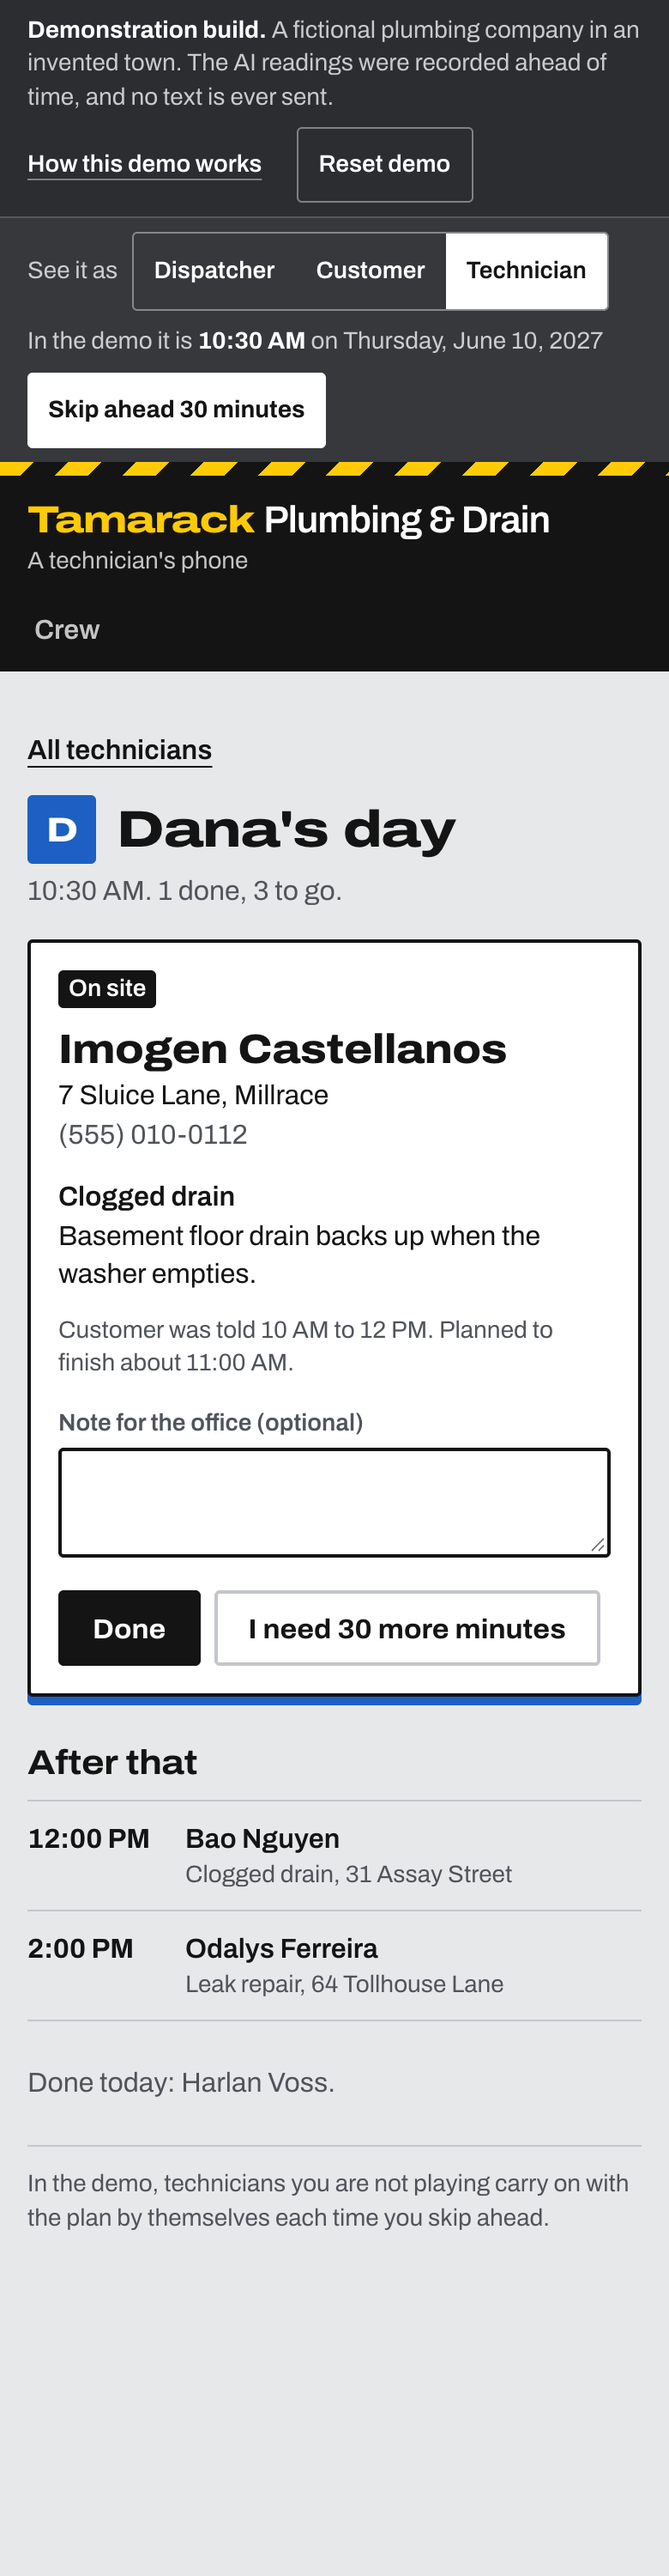
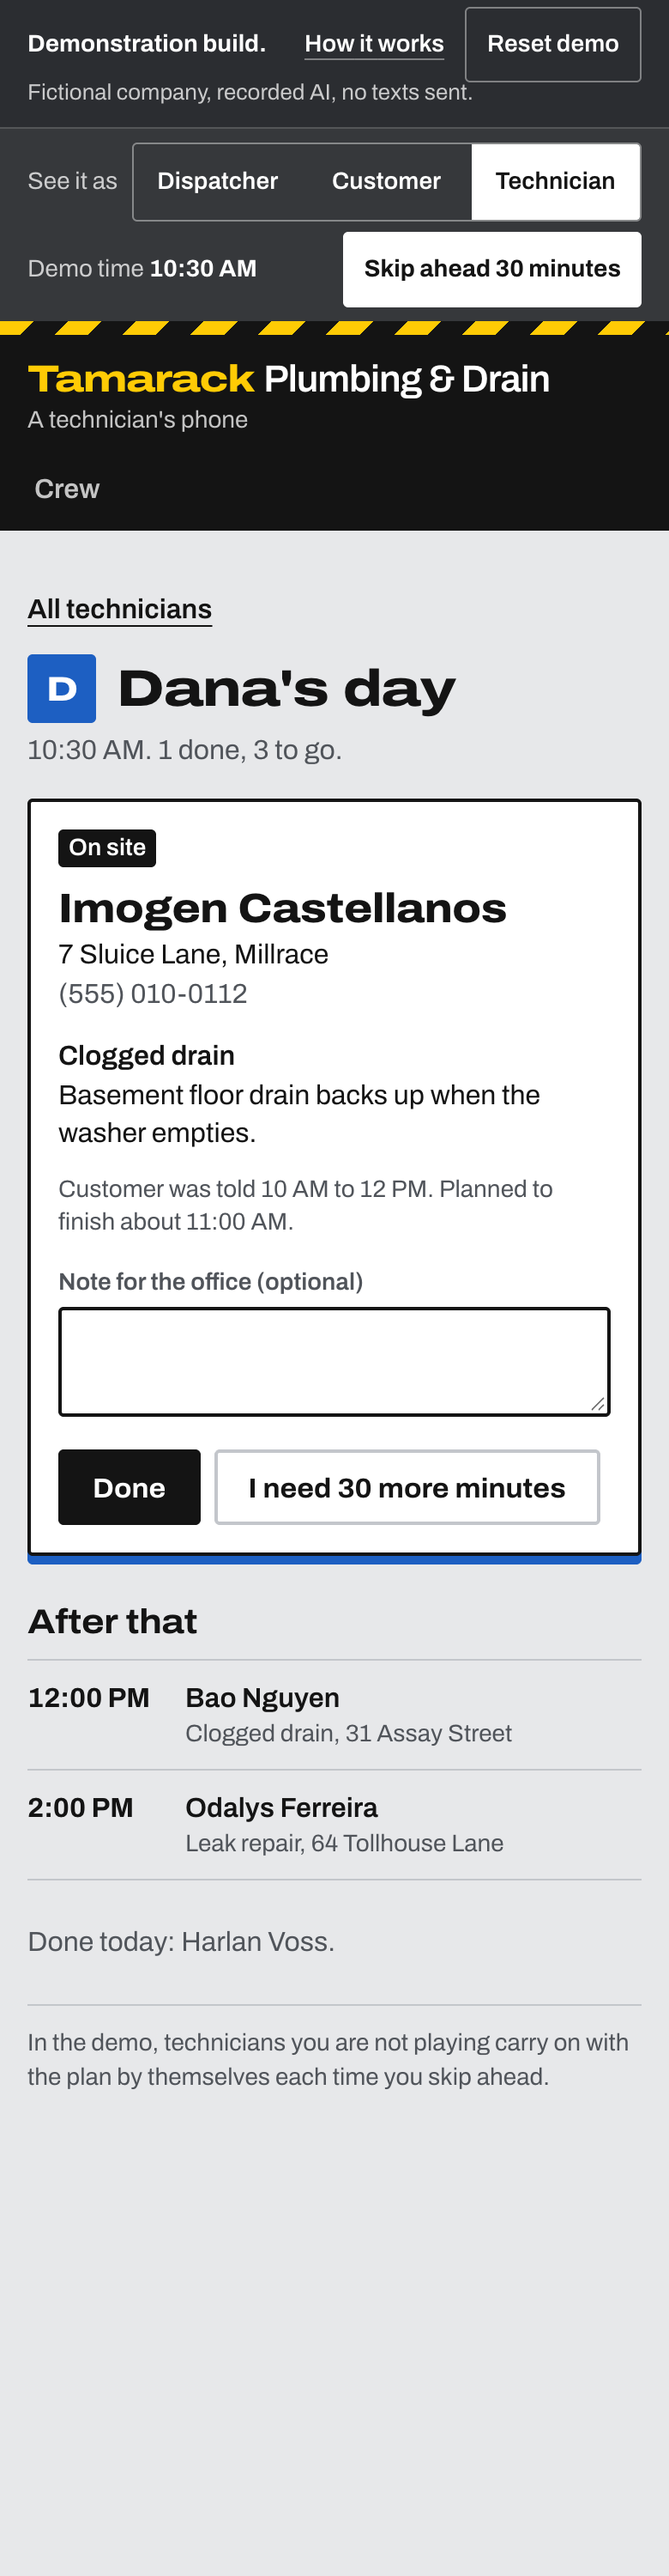
Compact phone demo bar, fit long magnet names, tidy seed and booked text
- Demo bar at phone width is three short rows (198px, was about 300) with 44px targets
- Board magnet names scale down to 12px so long surnames are not clipped
- Dana's first seeded arrival matches the 15-minute drive (8:15)
- Booked text names the technician: "when Priya is on the way"
- Docs screenshots retaken

Changed region(s): [[0.0, 0.0, 1.0, 0.868], [0.9538, 0.31, 0.9846, 0.372], [0.9538, 0.62, 0.9846, 0.651]]

diff --git a/src/components/demo-bar.tsx b/src/components/demo-bar.tsx
@@ -29,40 +29,47 @@ export function DemoBar({ now }: { now: number | null }) {
   const view = viewOf(usePathname());
   return (
     <div className="demo-chrome bg-steel text-sm text-white">
-      <div className="mx-auto flex max-w-[88rem] flex-wrap items-center gap-x-5 gap-y-2 px-4 py-2 sm:px-6">
-        <p className="min-w-0 flex-1 basis-72 leading-snug">
+      {/* On a phone the bar is three short rows, so the company's own screen starts as high as it can. */}
+      <div className="mx-auto flex max-w-[88rem] flex-wrap items-center gap-x-3 px-4 py-1 sm:gap-x-5 sm:gap-y-2 sm:px-6 sm:py-2">
+        <p className="min-w-0 flex-1 leading-snug sm:basis-72">
           <strong className="font-bold">Demonstration build.</strong>{" "}
-          <span className="text-white/75">A fictional plumbing company in an invented town. The AI readings were recorded ahead of time, and no text is ever sent.</span>
+          <span className="hidden text-white/75 sm:inline">A fictional plumbing company in an invented town. The AI readings were recorded ahead of time, and no text is ever sent.</span>
         </p>
         <Link href="/about" className="inline-flex min-h-11 items-center font-semibold underline decoration-white/40 underline-offset-4 hover:decoration-white sm:min-h-0">
-          How this demo works
+          How <span className="hidden sm:inline">&nbsp;this demo&nbsp;</span>
+          <span className="sm:hidden">&nbsp;it&nbsp;</span> works
         </Link>
         {now !== null && (
           <form action={resetDemoAction}>
             <ResetButton />
           </form>
         )}
+        <p className="-mt-0.5 basis-full pb-1.5 text-[0.8125rem] leading-snug text-white/75 sm:hidden">Fictional company, recorded AI, no texts sent.</p>
       </div>
       {now !== null && (
         <div className="border-t border-white/15 bg-white/5">
-          <div className="mx-auto flex max-w-[88rem] flex-wrap items-center gap-x-5 gap-y-2 px-4 py-2 sm:px-6">
-            <nav aria-label="Whose screen" className="flex items-center gap-2">
+          <div className="mx-auto flex max-w-[88rem] flex-wrap items-center gap-x-3 gap-y-1.5 px-4 py-2 sm:gap-x-5 sm:gap-y-2 sm:px-6">
+            <nav aria-label="Whose screen" className="flex basis-full items-center gap-2 sm:basis-auto">
               <span className="text-white/75">See it as</span>
-              <span className="flex overflow-hidden rounded-[3px] border border-white/40">
+              <span className="flex flex-1 overflow-hidden rounded-[3px] border border-white/40 sm:flex-none">
                 {VIEWS.map((item) => (
                   <Link
                     key={item.key}
                     href={item.href}
                     aria-current={view === item.key ? "page" : undefined}
-                    className={`inline-flex min-h-11 items-center px-3 py-1.5 font-semibold sm:min-h-0 ${view === item.key ? "bg-white text-ink" : "hover:bg-white/15"}`}
+                    className={`inline-flex min-h-11 flex-1 items-center justify-center px-2 py-1.5 font-semibold sm:min-h-0 sm:flex-none sm:px-3 ${view === item.key ? "bg-white text-ink" : "hover:bg-white/15"}`}
                   >
                     {item.label}
                   </Link>
                 ))}
               </span>
             </nav>
-            <p className="min-w-0 flex-1 basis-56 sm:text-right">
-              <span className="text-white/75">In the demo it is</span> <strong className="font-bold">{fmtTime(now)}</strong> <span className="text-white/75">on {DAY_NAME}</span>
+            <p className="min-w-0 flex-1 sm:basis-56 sm:text-right">
+              <span className="text-white/75">
+                <span className="hidden sm:inline">In the demo it is</span>
+                <span className="sm:hidden">Demo time</span>
+              </span>{" "}
+              <strong className="font-bold">{fmtTime(now)}</strong> <span className="hidden text-white/75 sm:inline">on {DAY_NAME}</span>
             </p>
             {now < LAST_NOW ? <SkipAhead /> : <p className="text-white/75">The demo day ends here. Reset to start again.</p>}
           </div>

diff --git a/src/lib/day.ts b/src/lib/day.ts
@@ -30,7 +30,7 @@ export type Booked = {
 
 export const BOOKED: Booked[] = [
   // Dana Whitlock
-  { key: "d1", customer: "Harlan Voss", phone: "(555) 010-0111", street: "18 Shale Road", x: 4, y: 11, type: "sewer", problem: "Slow drains through the whole house. Camera the main line.", window: 8, tech: "dana", status: "on_site", departAt: at(8), arriveAt: at(8, 14) },
+  { key: "d1", customer: "Harlan Voss", phone: "(555) 010-0111", street: "18 Shale Road", x: 4, y: 11, type: "sewer", problem: "Slow drains through the whole house. Camera the main line.", window: 8, tech: "dana", status: "on_site", departAt: at(8), arriveAt: at(8, 15) },
   { key: "d2", customer: "Imogen Castellanos", phone: "(555) 010-0112", street: "7 Sluice Lane", x: 3, y: 5, type: "drain", problem: "Basement floor drain backs up when the washer empties.", window: 10, tech: "dana", status: "scheduled" },
   { key: "d3", customer: "Bao Nguyen", phone: "(555) 010-0113", street: "31 Assay Street", x: 10, y: 6, type: "drain", problem: "Tub drains slowly, getting worse.", window: 12, tech: "dana", status: "scheduled" },
   { key: "d4", customer: "Odalys Ferreira", phone: "(555) 010-0114", street: "64 Tollhouse Lane", x: 11, y: 2, type: "leak", problem: "Damp patch under the kitchen sink cabinet.", window: 14, tech: "dana", status: "scheduled" },

diff --git a/src/lib/texts.ts b/src/lib/texts.ts
@@ -9,7 +9,7 @@ import { COMPANY } from "./crew";
 const US = COMPANY.name;
 
 export const TEXTS = {
-  booked: (tech: string, start: number, end: number) => `${US}: you are booked for today. ${tech} will arrive ${fmtBetween(start, end)}. We will text when they are on the way.`,
+  booked: (tech: string, start: number, end: number) => `${US}: you are booked for today. ${tech} will arrive ${fmtBetween(start, end)}. We will text you when ${tech} is on the way.`,
   emergency: (tech: string, arrive: number, next: boolean) => `${US}: ${tech} is coming to you ${next ? "next" : "as soon as possible"} and should arrive about ${fmtTime(arrive)}. If you can reach the main water valve, turn it off now.`,
   onTheWay: (tech: string, arrive: number) => `${US}: ${tech} is on the way and should arrive about ${fmtTime(arrive)}.`,
   done: (tech: string) => `${US}: ${tech} has finished. Thank you for calling us. Reply to this text if anything is not right.`,

diff --git a/src/components/board.tsx b/src/components/board.tsx
@@ -75,9 +75,9 @@ export function Board({ jobs, projection, now }: Props) {
                           data-late={late}
                           title={title(job, slot)}
                           aria-label={title(job, slot)}
-                          style={{ left: pct(from), width: `calc(${pct(until)} - ${pct(from)})` }}
+                          style={{ left: pct(from), width: `calc(${pct(until)} - ${pct(from)})`, "--n": surname(job.customer).length } as React.CSSProperties}
                         >
-                          {surname(job.customer)}
+                          <span className="magnet-name">{surname(job.customer)}</span>
                           {late && <span className="text-xs font-bold">{slot.late} min late</span>}
                         </Link>
                       </span>

diff --git a/src/app/globals.css b/src/app/globals.css
@@ -246,8 +246,16 @@ h1 {
     box-shadow: 0 2px 0 rgb(20 20 20 / 0.22);
     z-index: 1;
   }
+  /* A long name on a short job is set a little smaller, down to 12px, before it is ever cut off. */
+  .magnet {
+    container-type: inline-size;
+  }
+  .magnet-name {
+    font-size: clamp(0.75rem, calc(100cqw / (var(--n) * 0.5)), 0.9375rem);
+  }
   .magnet:hover,
   .magnet:focus-visible {
+    container-type: normal;
     z-index: 3;
     overflow: visible;
     min-width: max-content;
